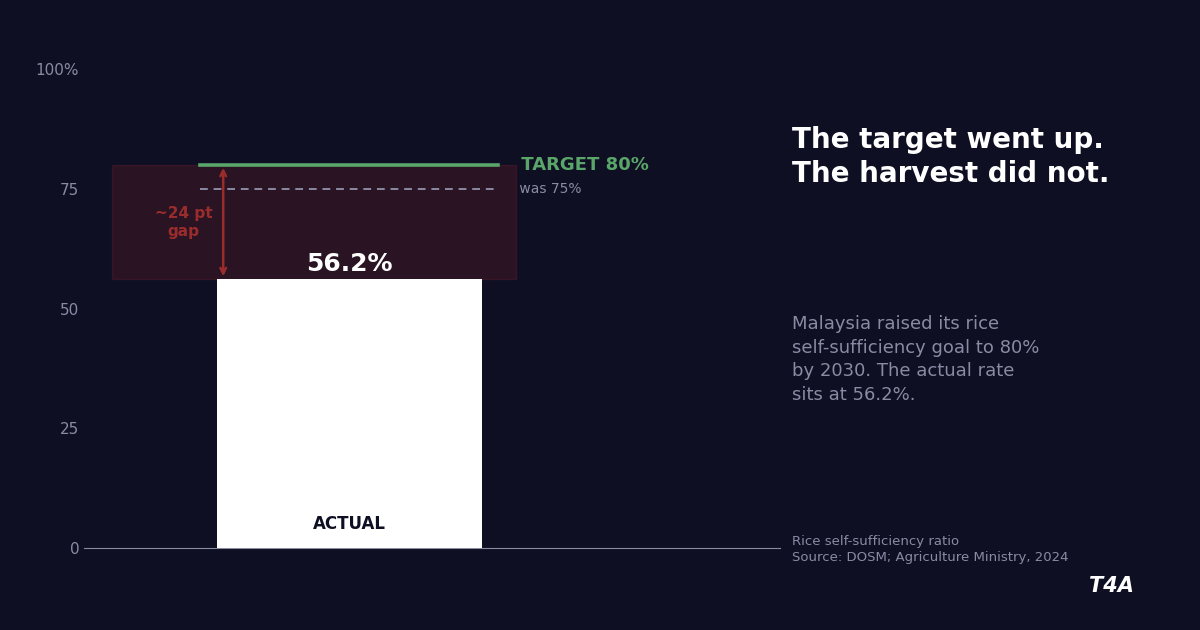
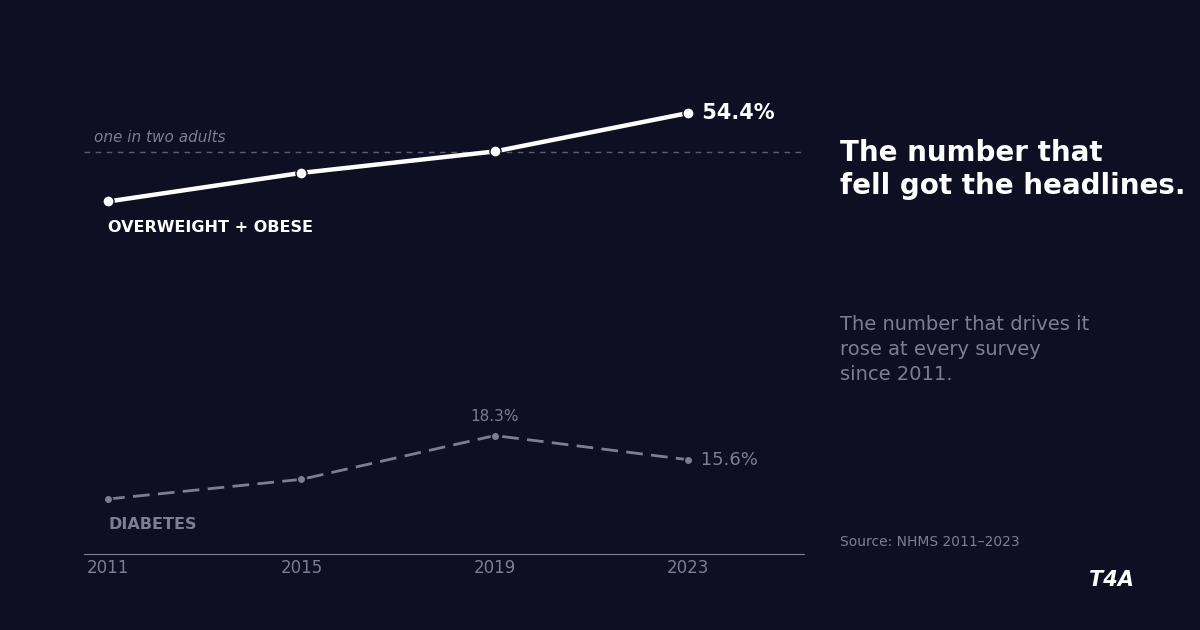
Renumber: diabetes -> 2002 (published), rice -> 2003; resolve main ID collision
A parallel worker merged a different issue 2001 to origin/main ('Health
savings promised...'), colliding with the diabetes issue. Per PHASE 9 (synced
origin/main first), resolved by shifting both issues; 2003 confirmed free on
main and branch.

- diabetes 2001 -> 2002, published:true (Stage 6 synthesis applied earlier;
  PHASE 6 legal/accuracy + stealth clear; primary IKU NHMS PDFs cited by Stage 3)
- rice 2002 -> 2003, stays published:false (its Stage 2/3 review not yet run)
- charts renamed; backlinks 1140/1446 -> 2002, 1155/1213/1555 -> 2003;
  D002 relatedIssues -> 2002; synthesis key; briefs + NEXT-STEPS updated

Gate: validate-issues 0, validate-dossiers 0, language 0 warnings (2002 & 2003),
em-dash 0, stealth clean, 2002 bg image present.

NOTE: committed to feature branch only. Deploy to main (PHASE 9) awaits explicit
permission per session git policy.

https://claude.ai/code/session_01PebZ9Vms9eu3pBiWeam574

diff --git a/engine/NEXT-STEPS-underreporting.md b/engine/NEXT-STEPS-underreporting.md
@@ -1,4 +1,4 @@
-# Next steps — underreporting series (issues 2001, 2002 + Dossier D002)
+# Next steps — underreporting series (issues 2002, 2003 + Dossier D002)
 
 This branch (`claude/malaysia-underreporting-analysis-PBO9F`) holds three review-ready DRAFTS plus the
 source research. None is published. This file is the operator checklist to take them live, in order.
@@ -8,11 +8,11 @@ source research. None is published. This file is the operator checklist to take 
 | Artifact | File | Published | Validators |
 |---|---|---|---|
 | Research report | `docs/research/malaysia-underreported-data-forecasts.md` | n/a | n/a |
-| Issue 2001 — diabetes/obesity | `src/data/issues/2001.json` | false | issues ✓, language 0 warns |
-| Issue 2002 — rice target gap | `src/data/issues/2002.json` | false | issues ✓, language 0 warns |
+| Issue 2002 — diabetes/obesity | `src/data/issues/2002.json` | false | issues ✓, language 0 warns |
+| Issue 2003 — rice target gap | `src/data/issues/2003.json` | false | issues ✓, language 0 warns |
 | Dossier D002 — Uncapped Ledger | `src/data/dossiers/D002.json` | false | dossiers ✓, astro check ✓ |
 
-Charts: `public/og/backgrounds/issue-2001-bg.png`, `issue-2002-bg.png`, `public/dossiers/D002/fig-*.png`.
+Charts: `public/og/backgrounds/issue-2002-bg.png`, `issue-2003-bg.png`, `public/dossiers/D002/fig-*.png`.
 Briefs: `engine/briefs/{diabetes-obesity-nhms-signal,rice-self-sufficiency-target-gap,the-uncapped-ledger}.md`.
 
 ## Why these are drafts (the gate)
@@ -25,7 +25,7 @@ independent stage. Two blockers remain on all three:
    confirmed before publish. The per-issue briefs list exactly which numbers need this.
 
 One claim was already DROPPED at the gate: the diabetes "the 2019 decline was a changed measurement
-definition" framing could not be verified, so issue 2001 makes no such claim. Do not reintroduce it without
+definition" framing could not be verified, so issue 2002 makes no such claim. Do not reintroduce it without
 a primary source.
 
 ## STEP 1 — Run the cross-LLM review (per artifact)
@@ -33,13 +33,13 @@ a primary source.
 Stages 4 and 5 are retired by default (see `docs/adr/0004-retire-stages-4-and-5.md`); only run 2 and 3.
 Paste each file's contents into the named tool, then save the JSON reply.
 
-**Issue 2001 (diabetes/obesity):**
+**Issue 2002 (diabetes/obesity):**
 - Stage 2 → Gemini: `engine/prompts-generated/diabetes-obesity-nhms-signal-stage2-browser.txt`
   → save reply to `engine/output/diabetes-obesity-nhms-signal-stage2.json`
 - Stage 3 → ChatGPT: `engine/prompts-generated/diabetes-obesity-nhms-signal-stage3-browser.txt`
   → save reply to `engine/output/diabetes-obesity-nhms-signal-stage3.json`
 
-**Issue 2002 (rice):**
+**Issue 2003 (rice):**
 - Stage 2 → Gemini: `engine/prompts-generated/rice-self-sufficiency-target-gap-stage2-browser.txt`
   → save to `engine/output/rice-self-sufficiency-target-gap-stage2.json`
 - Stage 3 → ChatGPT: `engine/prompts-generated/rice-self-sufficiency-target-gap-stage3-browser.txt`
@@ -87,8 +87,8 @@ Open these and confirm the named figures (briefs list table/page targets):
 ## Sequencing recommendation
 
 Ship in this order, matching the agreed radar priority and effort:
-1. **Issue 2001** (diabetes) — highest signal, lowest risk, one chart. Quick win.
-2. **Issue 2002** (rice) — clean target-vs-actual story.
+1. **Issue 2002** (diabetes) — highest signal, lowest risk, one chart. Quick win.
+2. **Issue 2003** (rice) — clean target-vs-actual story.
 3. **Dossier D002** (fiscal) — the flagship; most exhibits, most primary-PDF confirmation, so it benefits
    from going last once the lighter two have exercised the review loop.
 

diff --git a/engine/briefs/diabetes-obesity-nhms-signal.md b/engine/briefs/diabetes-obesity-nhms-signal.md
@@ -1,6 +1,6 @@
 # Brief — Malaysia's diabetes dip vs the obesity climb (NHMS 2011–2023)
 
-**Issue ID:** 2001
+**Issue ID:** 2002
 **Slug:** diabetes-obesity-nhms-signal
 **Status:** DRAFT (`published: false`). Stage 1 (Primary Analysis) and Stage 6 (Synthesis) done by
 Claude; independent verification done. **External Stage 2 (Bias Audit / Gemini) and Stage 3 (Fact
@@ -69,7 +69,7 @@ Primary **Health**; secondary **Social** (undiagnosed youth, sedentary behaviour
 7. "Rising Obesity in Malaysia (1990–2023)…", PMC12900780 — confirms the long-run obesity climb.
 8. Sinar Daily, "Malaysia's obesity crisis: 11 million adults affected"
 
-## CARD MAP (as published in 2001.json)
+## CARD MAP (as published in 2002.json)
 hook → diabetes fell, reported as relief, but one survey is not a trend.
 fact (Health) → overweight+obese climbed every survey to 54.4% / ~11M.
 fact (Health) → the undiagnosed iceberg: 2 in 5 unaware; 84% of 18–29s with diabetes don't know.

diff --git a/engine/briefs/rice-self-sufficiency-target-gap.md b/engine/briefs/rice-self-sufficiency-target-gap.md
@@ -1,4 +1,4 @@
-# Brief — Issue 2002: Malaysia's rice self-sufficiency target vs the actual rate
+# Brief — Issue 2003: Malaysia's rice self-sufficiency target vs the actual rate
 
 **Slug:** rice-self-sufficiency-target-gap
 **Status:** DRAFT (`published: false`). Stage 1 + Stage 6 done; independent verification done.
